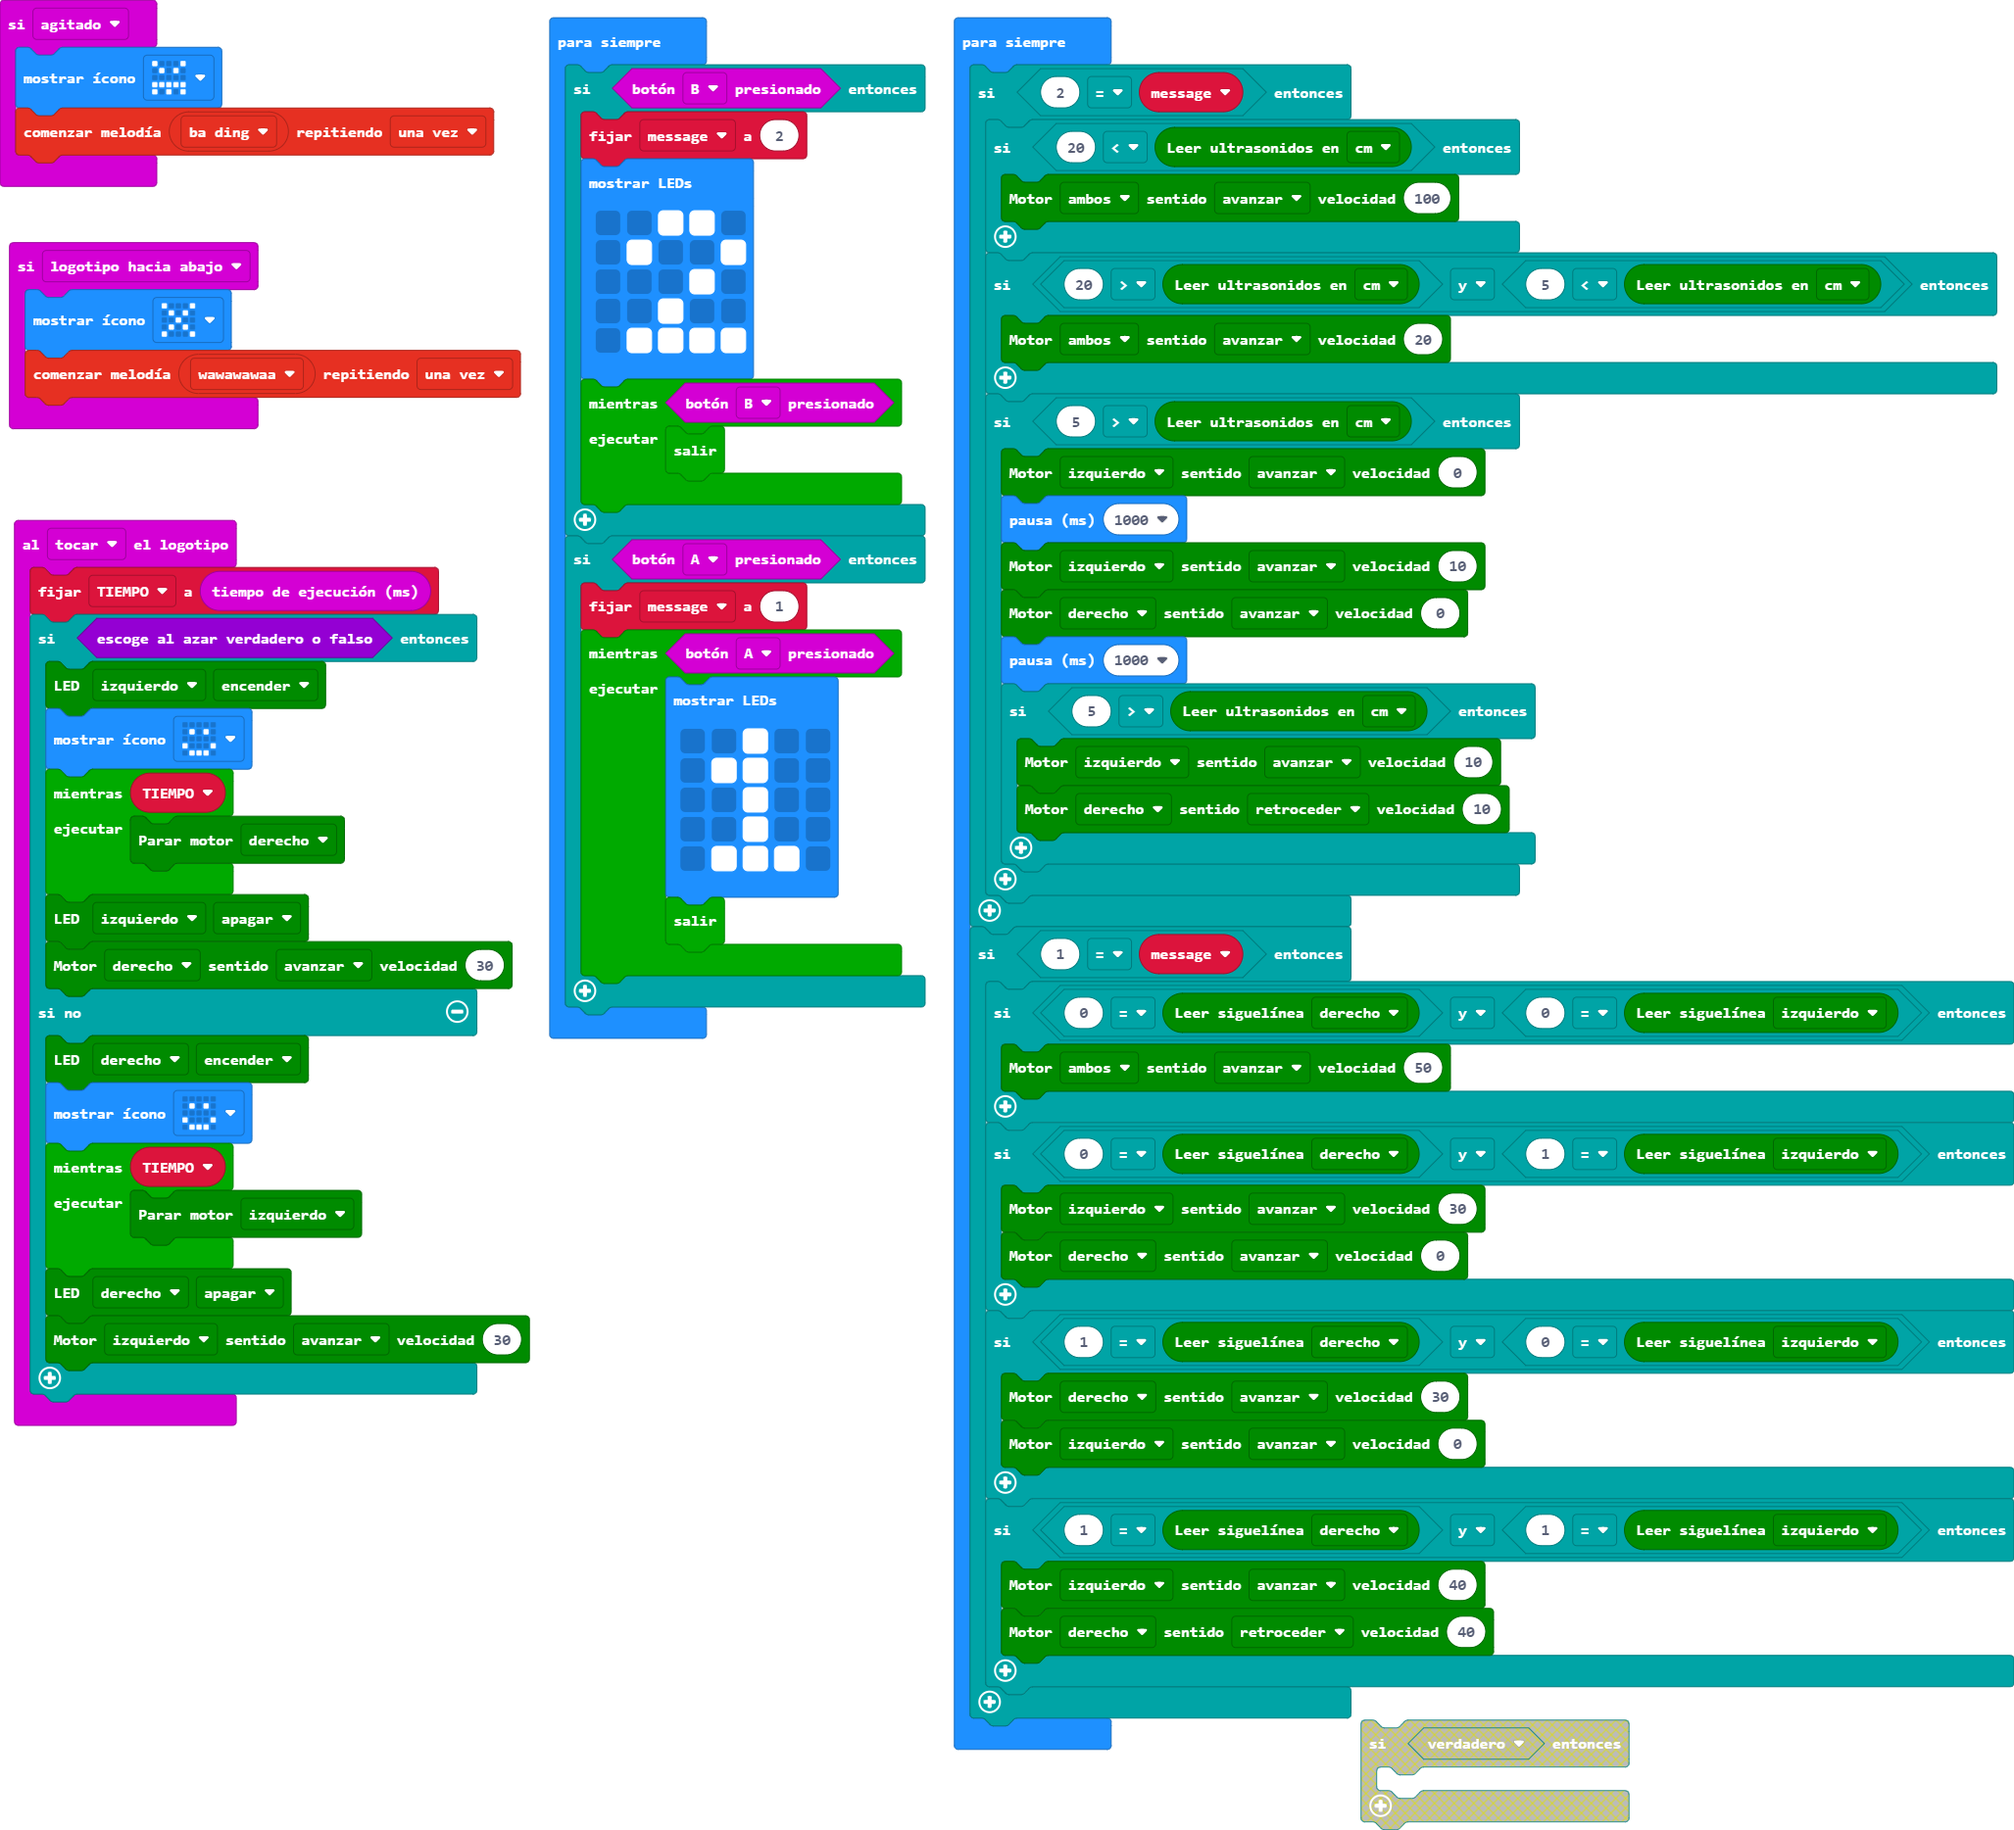
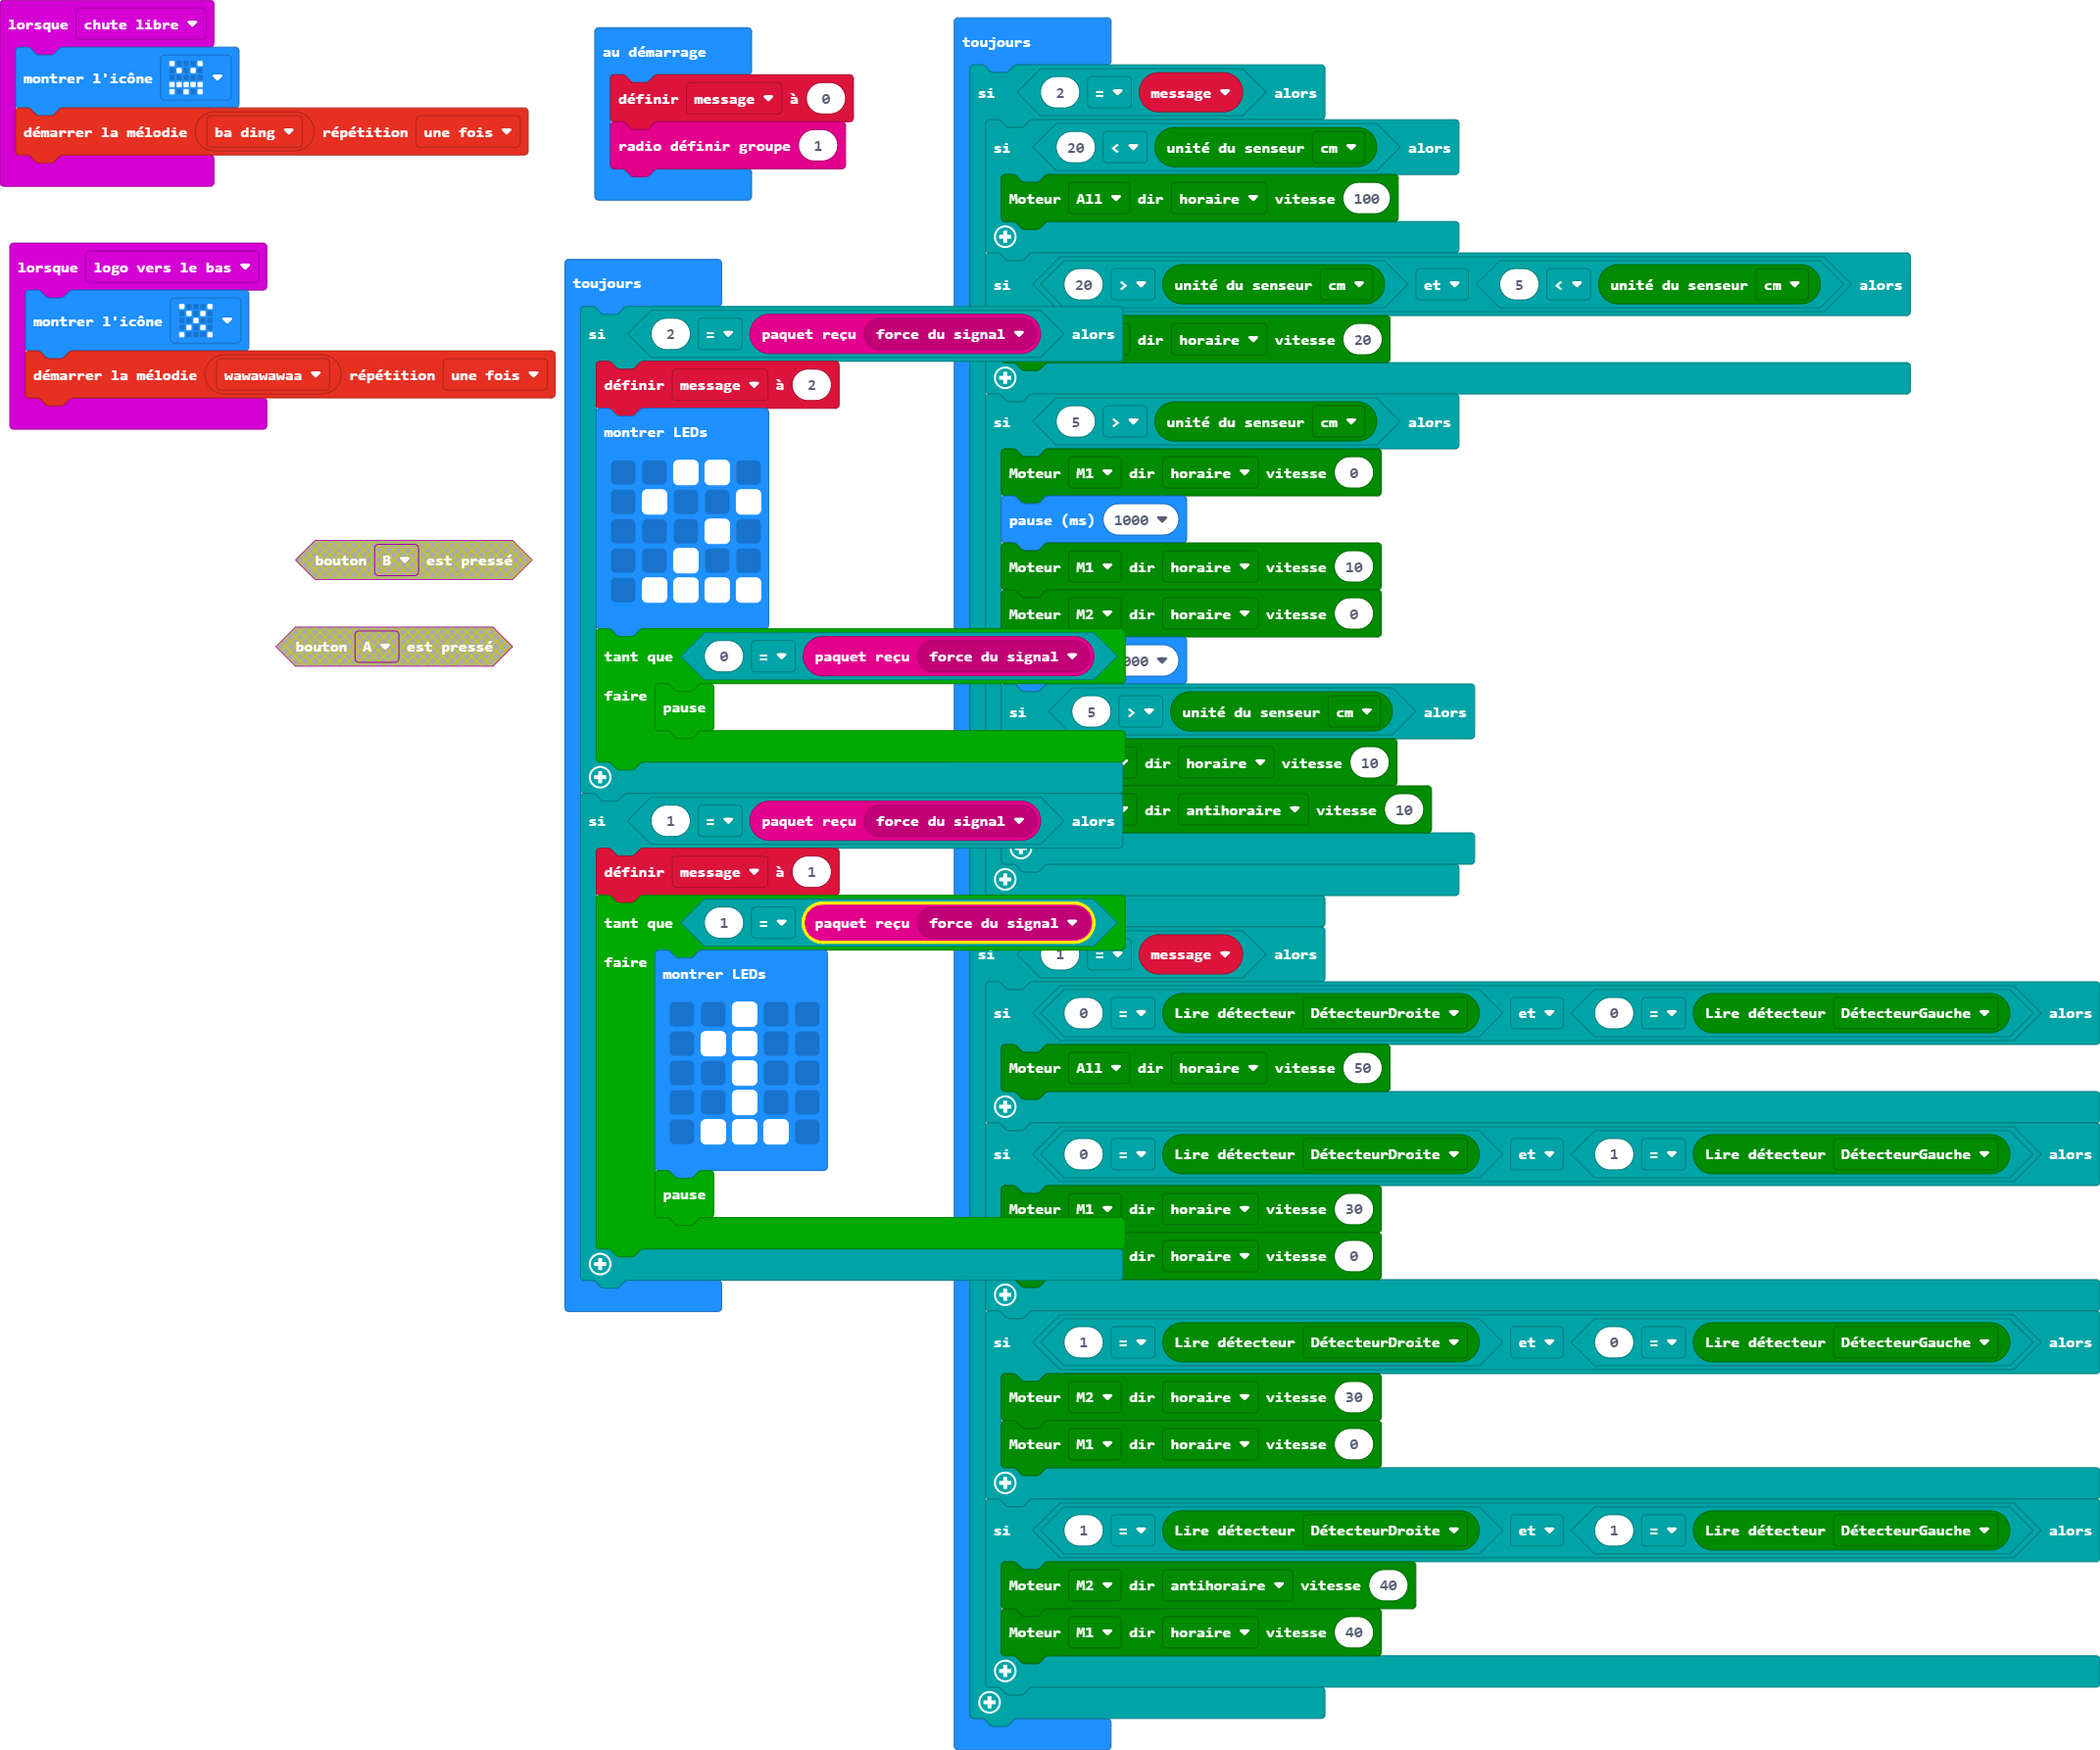
Mise à jour main.blocks, main.ts

diff --git a/main.ts b/main.ts
@@ -1,61 +1,13 @@
-let TIEMPO = 0
-let message = 0
-input.onGesture(Gesture.Shake, function () {
-    basic.showIcon(IconNames.Angry)
-    music.startMelody(music.builtInMelody(Melodies.BaDing), MelodyOptions.Once)
-})
-input.onLogoEvent(TouchButtonEvent.Touched, function () {
-    TIEMPO = input.runningTime()
-    if (Math.randomBoolean()) {
-        maqueen.writeLED(maqueen.LED.LEDLeft, maqueen.LEDswitch.turnOn)
-        basic.showIcon(IconNames.Happy)
-        while (TIEMPO) {
-            maqueen.motorStop(maqueen.Motors.M2)
-        }
-        maqueen.writeLED(maqueen.LED.LEDLeft, maqueen.LEDswitch.turnOff)
-        maqueen.motorRun(maqueen.Motors.M2, maqueen.Dir.CW, 30)
-    } else {
-        maqueen.writeLED(maqueen.LED.LEDRight, maqueen.LEDswitch.turnOn)
-        basic.showIcon(IconNames.Happy)
-        while (TIEMPO) {
-            maqueen.motorStop(maqueen.Motors.M1)
-        }
-        maqueen.writeLED(maqueen.LED.LEDRight, maqueen.LEDswitch.turnOff)
-        maqueen.motorRun(maqueen.Motors.M1, maqueen.Dir.CW, 30)
-    }
-})
 input.onGesture(Gesture.LogoDown, function () {
     basic.showIcon(IconNames.No)
     music.startMelody(music.builtInMelody(Melodies.Wawawawaa), MelodyOptions.Once)
 })
-basic.forever(function () {
-    if (input.buttonIsPressed(Button.B)) {
-        message = 2
-        basic.showLeds(`
-            . . # # .
-            . # . . #
-            . . . # .
-            . . # . .
-            . # # # #
-            `)
-        while (input.buttonIsPressed(Button.B)) {
-            break;
-        }
-    }
-    if (input.buttonIsPressed(Button.A)) {
-        message = 1
-        while (input.buttonIsPressed(Button.A)) {
-            basic.showLeds(`
-                . . # . .
-                . # # . .
-                . . # . .
-                . . # . .
-                . # # # .
-                `)
-            break;
-        }
-    }
+input.onGesture(Gesture.FreeFall, function () {
+    basic.showIcon(IconNames.Angry)
+    music.startMelody(music.builtInMelody(Melodies.BaDing), MelodyOptions.Once)
 })
+let message = 0
+radio.setGroup(1)
 basic.forever(function () {
     if (2 == message) {
         if (20 < maqueen.Ultrasonic(PingUnit.Centimeters)) {
@@ -89,8 +41,36 @@ basic.forever(function () {
             maqueen.motorRun(maqueen.Motors.M1, maqueen.Dir.CW, 0)
         }
         if (1 == maqueen.readPatrol(maqueen.Patrol.PatrolRight) && 1 == maqueen.readPatrol(maqueen.Patrol.PatrolLeft)) {
-            maqueen.motorRun(maqueen.Motors.M1, maqueen.Dir.CW, 40)
             maqueen.motorRun(maqueen.Motors.M2, maqueen.Dir.CCW, 40)
+            maqueen.motorRun(maqueen.Motors.M1, maqueen.Dir.CW, 40)
+        }
+    }
+})
+basic.forever(function () {
+    if (2 == radio.receivedPacket(RadioPacketProperty.SignalStrength)) {
+        message = 2
+        basic.showLeds(`
+            . . # # .
+            . # . . #
+            . . . # .
+            . . # . .
+            . # # # #
+            `)
+        while (0 == radio.receivedPacket(RadioPacketProperty.SignalStrength)) {
+            break;
+        }
+    }
+    if (1 == radio.receivedPacket(RadioPacketProperty.SignalStrength)) {
+        message = 1
+        while (1 == radio.receivedPacket(RadioPacketProperty.SignalStrength)) {
+            basic.showLeds(`
+                . . # . .
+                . # # . .
+                . . # . .
+                . . # . .
+                . # # # .
+                `)
+            break;
         }
     }
 })
